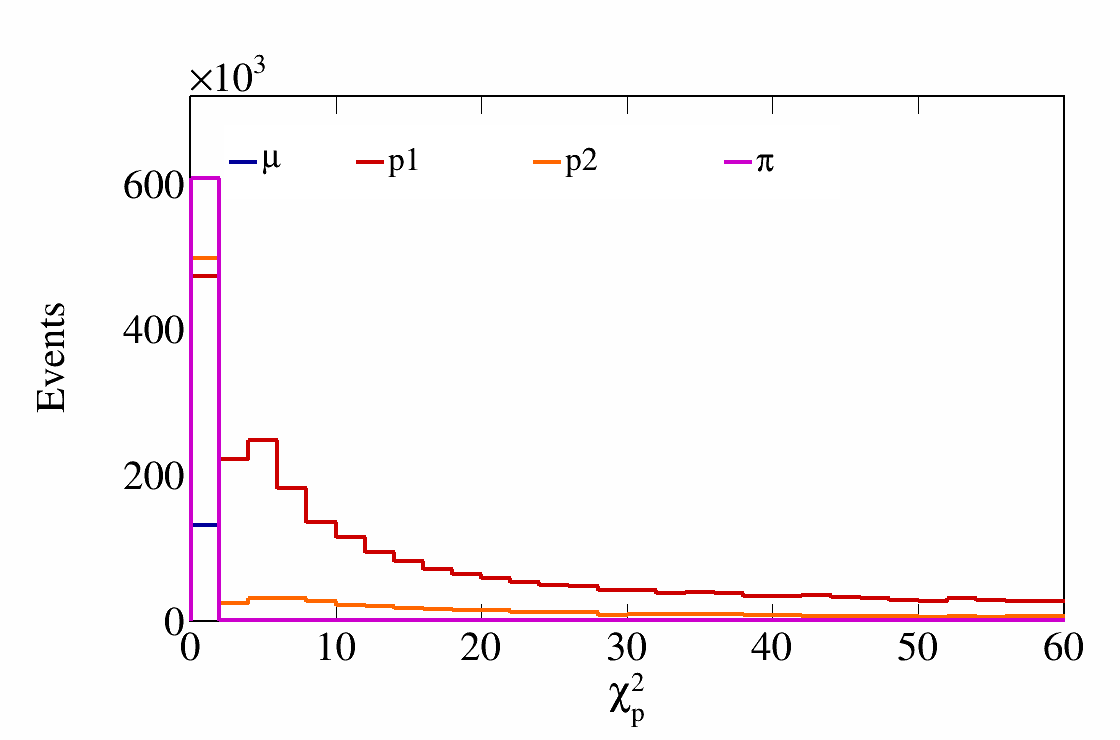
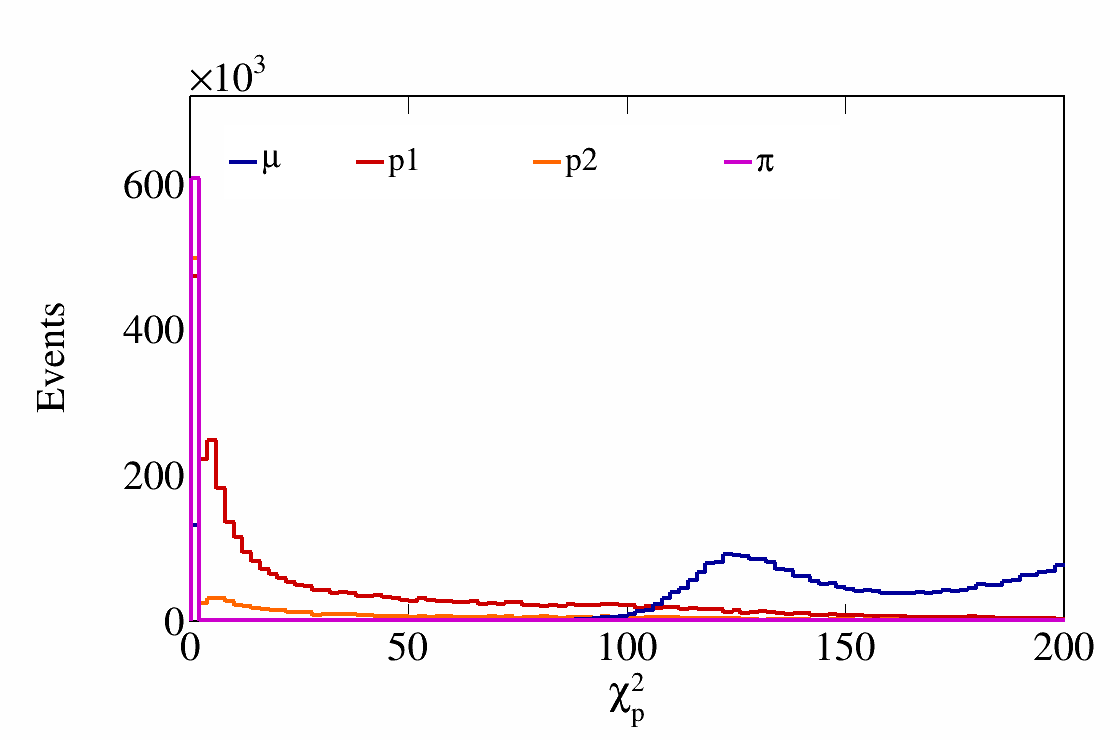
Use larger range for chi2proton plot

diff --git a/CAFAnaAnalysis/Scripts/SelectionCutPlots.C b/CAFAnaAnalysis/Scripts/SelectionCutPlots.C
@@ -77,7 +77,7 @@ void SelectionCutPlots() {
     HistosCuts.push_back({kHasMuon, kHasProton, kHasSecondProton, kHasPion}); HistosLabels.push_back({"#mu", "p1", "p2", "#pi"});
 
     // Proton chi square for muon cut
-    Vars.push_back({kMuProtonChi2, kProtonProtonChi2, kSecondProtonProtonChi2, kPionProtonChi2}); VarBins.push_back(bMuChi2); SignalCuts.push_back(kCosmicCut);
+    Vars.push_back({kMuProtonChi2, kProtonProtonChi2, kSecondProtonProtonChi2, kPionProtonChi2}); VarBins.push_back(bProtonChi2); SignalCuts.push_back(kCosmicCut);
     PlotNames.push_back("ParticleCutChi2Proton"); VarLabels.push_back("#chi^{2}_{p}"); 
     HistosCuts.push_back({kHasMuon, kHasProton, kHasSecondProton, kHasPion}); HistosLabels.push_back({"#mu", "p1", "p2", "#pi"});
 

diff --git a/CAFAnaAnalysis/Scripts/Definitions.h b/CAFAnaAnalysis/Scripts/Definitions.h
@@ -71,6 +71,7 @@ namespace ana
     const Binning bFMatchScore = Binning::Simple(40, 0, 40.0);
     const Binning bFMatchTime = Binning::Simple(20, 0, 5.0);
     const Binning bMuChi2 = Binning::Simple(30, 0, 60.0);
+    const Binning bProtonChi2 = Binning::Simple(100, 0, 200.0);
 
     // Double differential bins
     Tools tools; // tools for double differential bins
